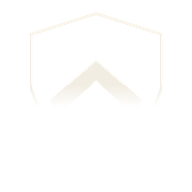
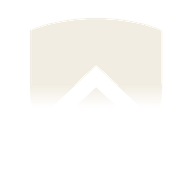
Adopt the "Chief" mark: heater shield with a chevron cut out
scripts/pridwen_mark.py is now the single source of the geometry. It
writes the hicolor app icon (cream mark on a night tile) and a
symbolic variant, and the Plymouth generator imports it for the boot
frames and the GDM login logo, so the shield is identical everywhere.

Changed region(s): [[0.1562, 0.0938, 0.8438, 0.4688]]

diff --git a/scripts/pridwen_mark.py b/scripts/pridwen_mark.py
@@ -1,0 +1,112 @@
+#!/usr/bin/env python3
+"""The Pridwen mark ("Chief"): a heater shield with a chevron cut out of it.
+
+Single source of truth for the geometry. Everything that draws the mark
+(the hicolor icons, the Plymouth boot frames, the GDM logo) imports this so
+the shield is identical everywhere. Coordinates are on a 128-unit grid.
+
+Run directly to (re)write the SVG icons:
+    python scripts/pridwen_mark.py
+"""
+from pathlib import Path
+
+import numpy as np
+from PIL import Image, ImageDraw
+
+CREAM = (242, 237, 227)
+NIGHT = (17, 19, 24)
+NIGHT_BLOB = (44, 50, 78)
+
+# Shield outline: cubic Bezier segments (start, c1, c2, end) on the 128 grid.
+SHIELD_SEGMENTS = [
+    ((64, 12), (82, 12), (98, 15.5), (108, 20)),
+    ((108, 20), (108, 20), (108, 58), (108, 58)),          # straight edge
+    ((108, 58), (108, 86), (90, 106), (64, 118)),
+    ((64, 118), (38, 106), (20, 86), (20, 58)),
+    ((20, 58), (20, 58), (20, 20), (20, 20)),               # straight edge
+    ((20, 20), (30, 15.5), (46, 12), (64, 12)),
+]
+# Chevron cut out of the shield (a "chief" in heraldry sits at the top).
+CHEVRON = [(64, 44), (36, 70), (36, 84), (64, 58), (92, 84), (92, 70)]
+
+SVG_PATH = (
+    "M64 12 C 82 12 98 15.5 108 20 V 58 C 108 86 90 106 64 118 "
+    "C 38 106 20 86 20 58 V 20 C 30 15.5 46 12 64 12 Z "
+    "M64 44 L 36 70 L 36 84 L 64 58 L 92 84 L 92 70 Z"
+)
+
+
+def shield_polygon(samples=32):
+    """Flatten the Bezier outline into a polygon."""
+    pts = []
+    for p0, p1, p2, p3 in SHIELD_SEGMENTS:
+        for i in range(samples):
+            t = i / samples
+            u = 1 - t
+            x = u**3 * p0[0] + 3 * u**2 * t * p1[0] + 3 * u * t**2 * p2[0] + t**3 * p3[0]
+            y = u**3 * p0[1] + 3 * u**2 * t * p1[1] + 3 * u * t**2 * p2[1] + t**3 * p3[1]
+            pts.append((x, y))
+    return pts
+
+
+def render_mark(size, colour=CREAM, ss=4, box=128):
+    """Rasterise the mark at `size` px (RGBA, transparent background)."""
+    big = size * ss
+    k = big / box
+    mask = Image.new("L", (big, big), 0)
+    d = ImageDraw.Draw(mask)
+    d.polygon([(x * k, y * k) for x, y in shield_polygon()], fill=255)
+    d.polygon([(x * k, y * k) for x, y in CHEVRON], fill=0)
+    mask = mask.resize((size, size), Image.LANCZOS)
+    rgba = np.zeros((size, size, 4), np.uint8)
+    rgba[..., :3] = colour
+    rgba[..., 3] = np.asarray(mask)
+    return Image.fromarray(rgba, "RGBA")
+
+
+def svg_symbolic():
+    """Mark only, currentColor; for the top bar and any place that tints icons."""
+    return f'''<?xml version="1.0" encoding="UTF-8"?>
+<svg xmlns="http://www.w3.org/2000/svg" viewBox="0 0 128 128" width="16" height="16">
+  <path fill="currentColor" fill-rule="evenodd" d="{SVG_PATH}"/>
+</svg>
+'''
+
+
+def svg_icon():
+    """App icon: cream mark on a night tile, so it reads on both canvases."""
+    return f'''<?xml version="1.0" encoding="UTF-8"?>
+<!-- Pridwen OS mark ("Chief"). Generated by scripts/pridwen_mark.py; edit there. -->
+<svg xmlns="http://www.w3.org/2000/svg" viewBox="0 0 128 128" width="128" height="128">
+  <defs>
+    <linearGradient id="tile" x1="0" y1="0" x2="0" y2="1">
+      <stop offset="0" stop-color="#2C324E"/>
+      <stop offset="1" stop-color="#111318"/>
+    </linearGradient>
+    <linearGradient id="rim" x1="0" y1="0" x2="0" y2="1">
+      <stop offset="0" stop-color="#FFFFFF" stop-opacity="0.28"/>
+      <stop offset="1" stop-color="#FFFFFF" stop-opacity="0.10"/>
+    </linearGradient>
+  </defs>
+  <rect x="4" y="4" width="120" height="120" rx="30" fill="url(#tile)"/>
+  <rect x="4.5" y="4.5" width="119" height="119" rx="29.5" fill="none" stroke="url(#rim)"/>
+  <g transform="translate(64 64) scale(0.68) translate(-64 -64)">
+    <path fill="#F2EDE3" fill-rule="evenodd" d="{SVG_PATH}"/>
+  </g>
+</svg>
+'''
+
+
+def main():
+    root = Path(__file__).resolve().parent.parent
+    apps = root / "system_files/usr/share/icons/hicolor/scalable/apps"
+    sym = root / "system_files/usr/share/icons/hicolor/symbolic/apps"
+    apps.mkdir(parents=True, exist_ok=True)
+    sym.mkdir(parents=True, exist_ok=True)
+    (apps / "pridwen.svg").write_text(svg_icon(), encoding="utf-8", newline="\n")
+    (sym / "pridwen-symbolic.svg").write_text(svg_symbolic(), encoding="utf-8", newline="\n")
+    print(f"wrote {apps / 'pridwen.svg'} and {sym / 'pridwen-symbolic.svg'}")
+
+
+if __name__ == "__main__":
+    main()

diff --git a/scripts/gen-plymouth-assets.py b/scripts/gen-plymouth-assets.py
@@ -4,6 +4,7 @@
 Plymouth script themes can only show bitmaps, so the mark's "draw in" is a
 sequence of frames: the shield revealed top to bottom with a soft edge.
 Colours: cream on the night canvas (the boot screen is always night).
+The mark itself comes from scripts/pridwen_mark.py.
 
 Usage: python scripts/gen-plymouth-assets.py [outdir]
 Writes into system_files/usr/share/plymouth/themes/pridwen/ by default.
@@ -15,41 +16,18 @@ from pathlib import Path
 import numpy as np
 from PIL import Image, ImageDraw, ImageFilter
 
-CREAM = (242, 237, 227)
-SLATE = (95, 126, 155)
+import sys
+sys.path.insert(0, str(Path(__file__).resolve().parent))
+from pridwen_mark import CREAM, render_mark  # noqa: E402
+
 SS = 4  # supersampling for clean edges
 MARK = 192  # mark box in px
 FRAMES = 24
 
-# Same geometry as the SVG mark (128-unit box), scaled to MARK px.
-def P(x, y):
-    return (x / 128 * MARK * SS, y / 128 * MARK * SS)
-
-
-SHIELD = [P(64, 8), P(108, 22), P(108, 60), P(90, 108), P(64, 120), P(38, 108), P(20, 60), P(20, 22)]
-CHEVRON = [P(34, 66), P(64, 40), P(94, 66), P(94, 80), P(64, 54), P(34, 80)]
-KEEL = [P(58, 84), P(70, 84), P(70, 102), P(64, 108), P(58, 102)]
-
 
 def shield_outline_mask():
-    """Cream shield outline (stroke only) plus chevron and keel, as an RGBA image."""
-    big = MARK * SS
-    im = Image.new("RGBA", (big, big), (0, 0, 0, 0))
-    d = ImageDraw.Draw(im)
-    # Outline: draw filled shield, then subtract an inset shield.
-    outer = Image.new("L", (big, big), 0)
-    ImageDraw.Draw(outer).polygon(SHIELD, fill=255)
-    inset = outer.filter(ImageFilter.MinFilter(int(4.5 * SS) | 1))
-    ring = np.asarray(outer).astype(np.int16) - np.asarray(inset).astype(np.int16)
-    ring = np.clip(ring, 0, 255).astype(np.uint8)
-    rgba = np.zeros((big, big, 4), np.uint8)
-    rgba[..., :3] = CREAM
-    rgba[..., 3] = ring
-    im = Image.fromarray(rgba, "RGBA")
-    d = ImageDraw.Draw(im)
-    d.polygon(CHEVRON, fill=CREAM + (255,))
-    d.polygon(KEEL, fill=SLATE + (255,))
-    return im
+    """The Chief mark in cream, oversampled; reveal() and down() work on this."""
+    return render_mark(MARK * SS, CREAM, ss=1)
 
 
 def reveal(im, t):

diff --git a/CLAUDE.md b/CLAUDE.md
@@ -96,7 +96,7 @@ the VM, look. Slice 4 needs a fresh install (new ISO) because it only runs when 
 
 1. **Look basics** (7e22e82): Cream Glass wallpapers rendered by `scripts/gen-wallpapers.py`
    from the mode.ts tokens; dconf distro defaults (`system_files/etc/dconf/db/distro.d`);
-   hostname `pridwen`; placeholder shield mark as os-release LOGO. Version 0.2.0-m1.
+   hostname `pridwen`; shield mark as os-release LOGO. Version 0.2.0-m1.
 2. **Boot and sun** (24e13d5): Plymouth script theme `pridwen` (assets from
    `scripts/gen-plymouth-assets.py`), initramfs regenerated with dracut at build,
    three `pridwen-narrate-*` units send plain-English lines via `plymouth display-message`,
@@ -126,8 +126,16 @@ Two VMs now: "Pridwen M0" (installed from the M0 ISO, upgraded since) and "Pridw
 (fresh, for the wizard test). ISOs in `C:\Users\natet\VMs\pridwen\`.
 
 Known gaps for later: Shell top-bar styling (needs user-theme extension); language and
-keyboard pages in the wizard; Guide connection page is informational only until M5; the
-mark is a placeholder pending the owner's sign-off; VirtualBox has no guest additions.
+keyboard pages in the wizard; Guide connection page is informational only until M5; VirtualBox has no guest additions.
+
+## The mark
+
+The Pridwen mark is "Chief": a heater shield with a chevron cut out, chosen by the owner on
+2026-09-04 from five candidates (https://claude.ai/code/artifact/0ba21e5d-7680-4f56-8998-4f7e94f60adb).
+`scripts/pridwen_mark.py` is the single source of the geometry and writes the hicolor icons
+(`pridwen.svg` = cream mark on a night tile, `pridwen-symbolic.svg` = currentColor mark).
+`scripts/gen-plymouth-assets.py` imports it for the boot frames and the GDM login logo.
+Never redraw the shield by hand anywhere else.
 
 ## Useful references
 
